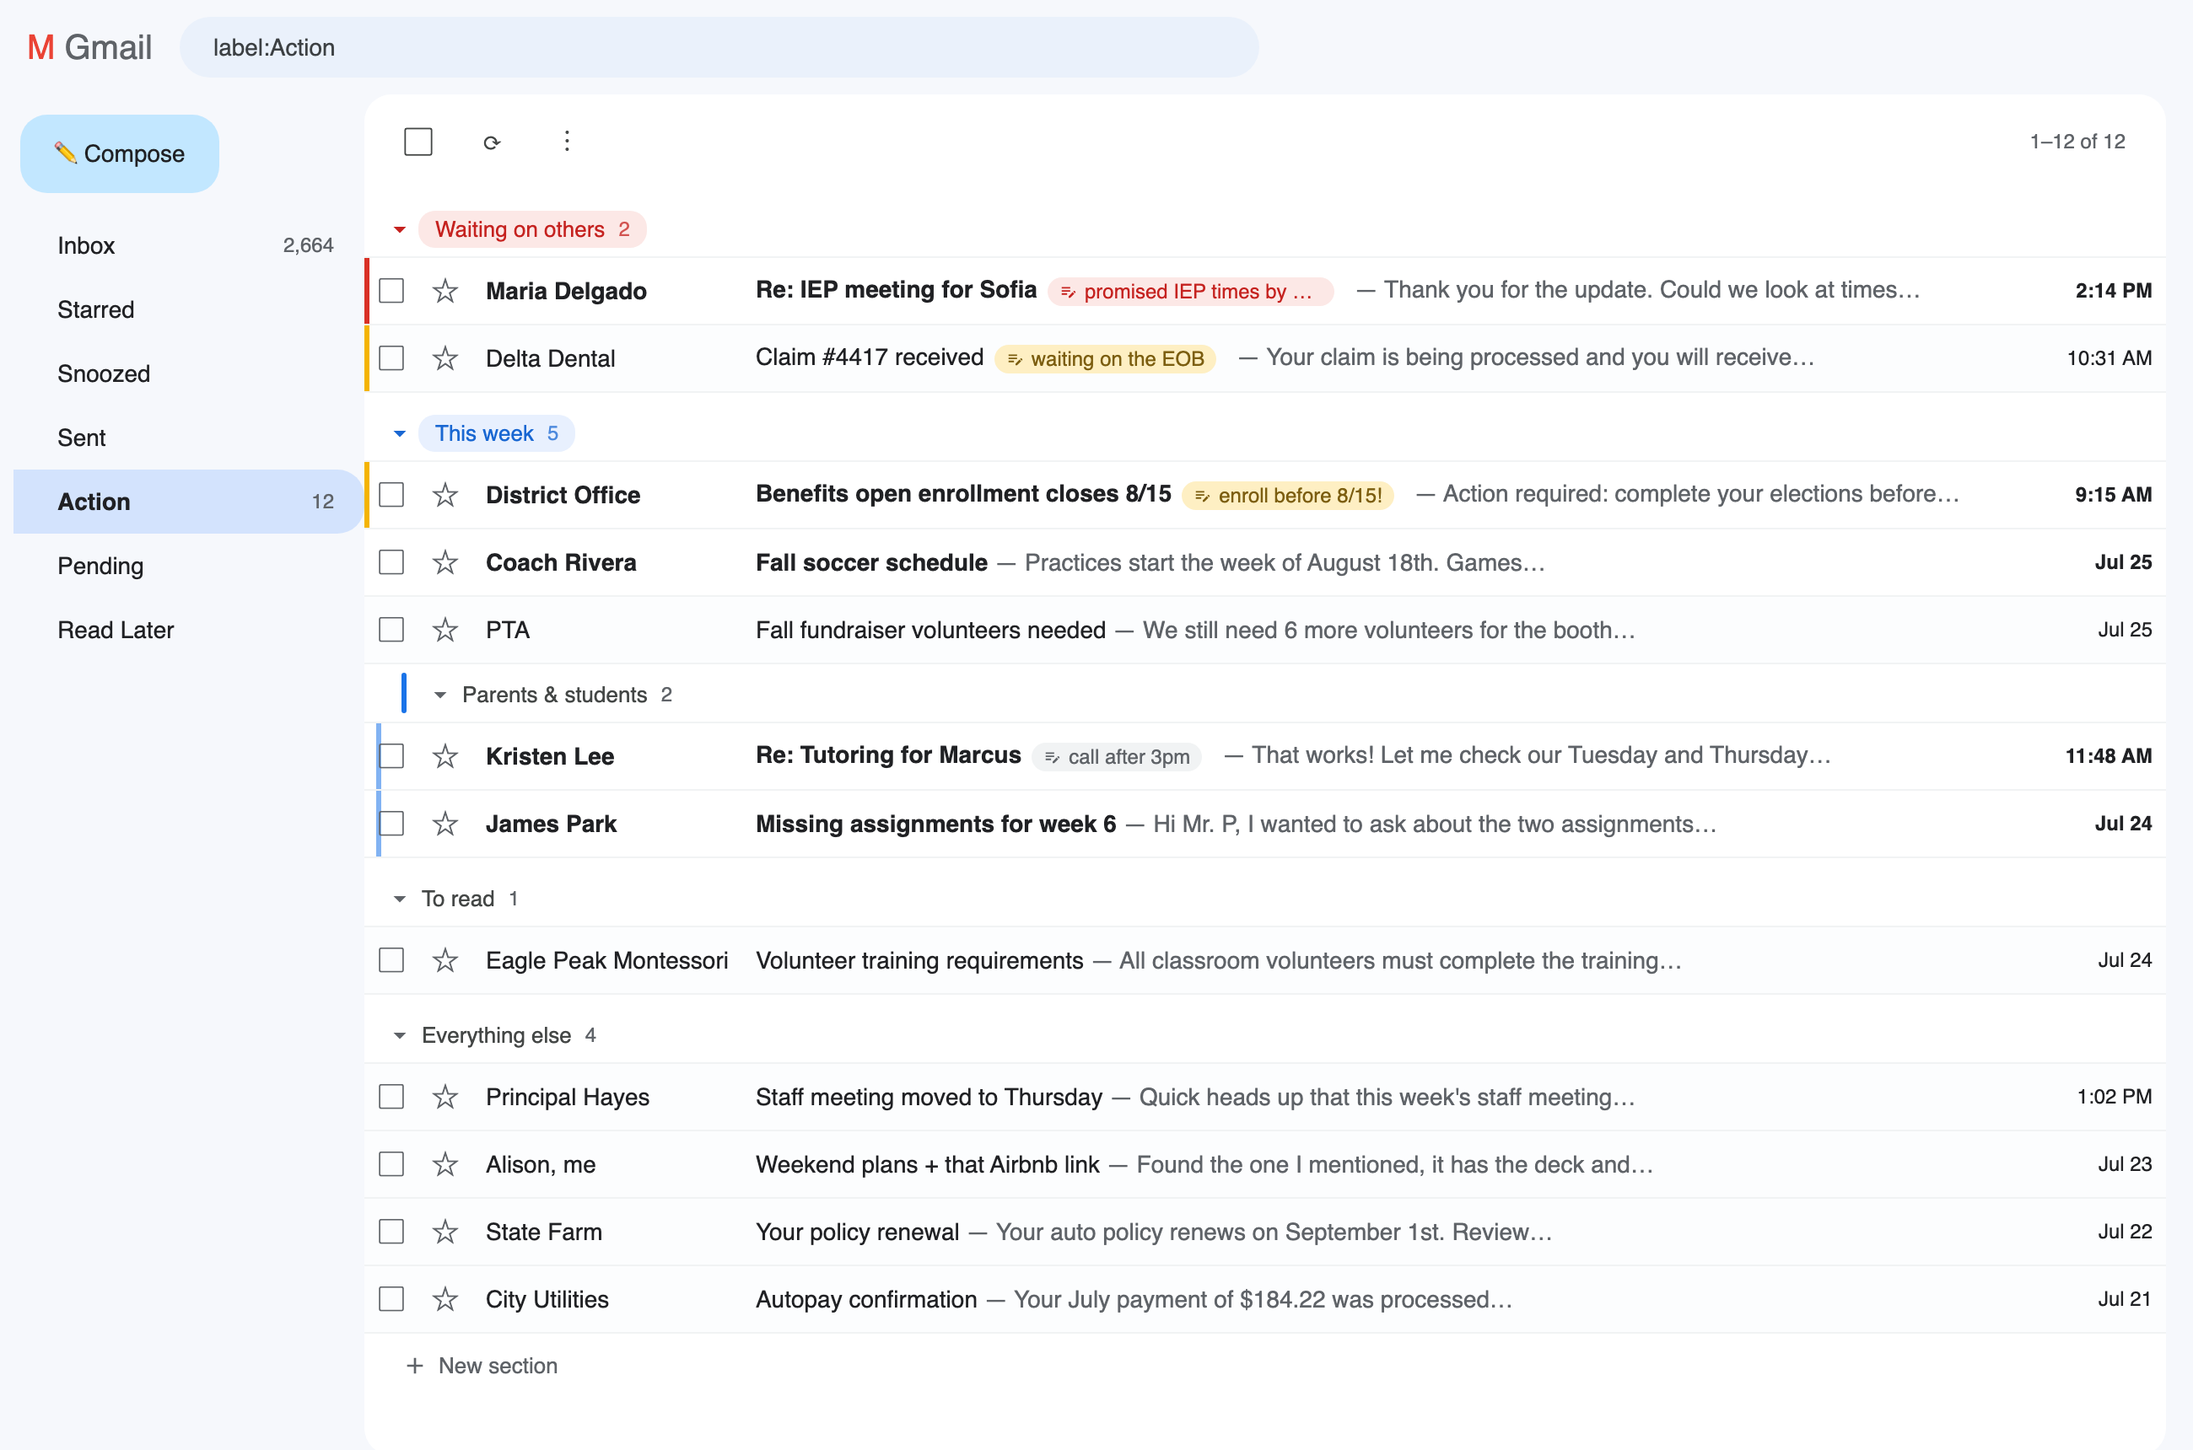
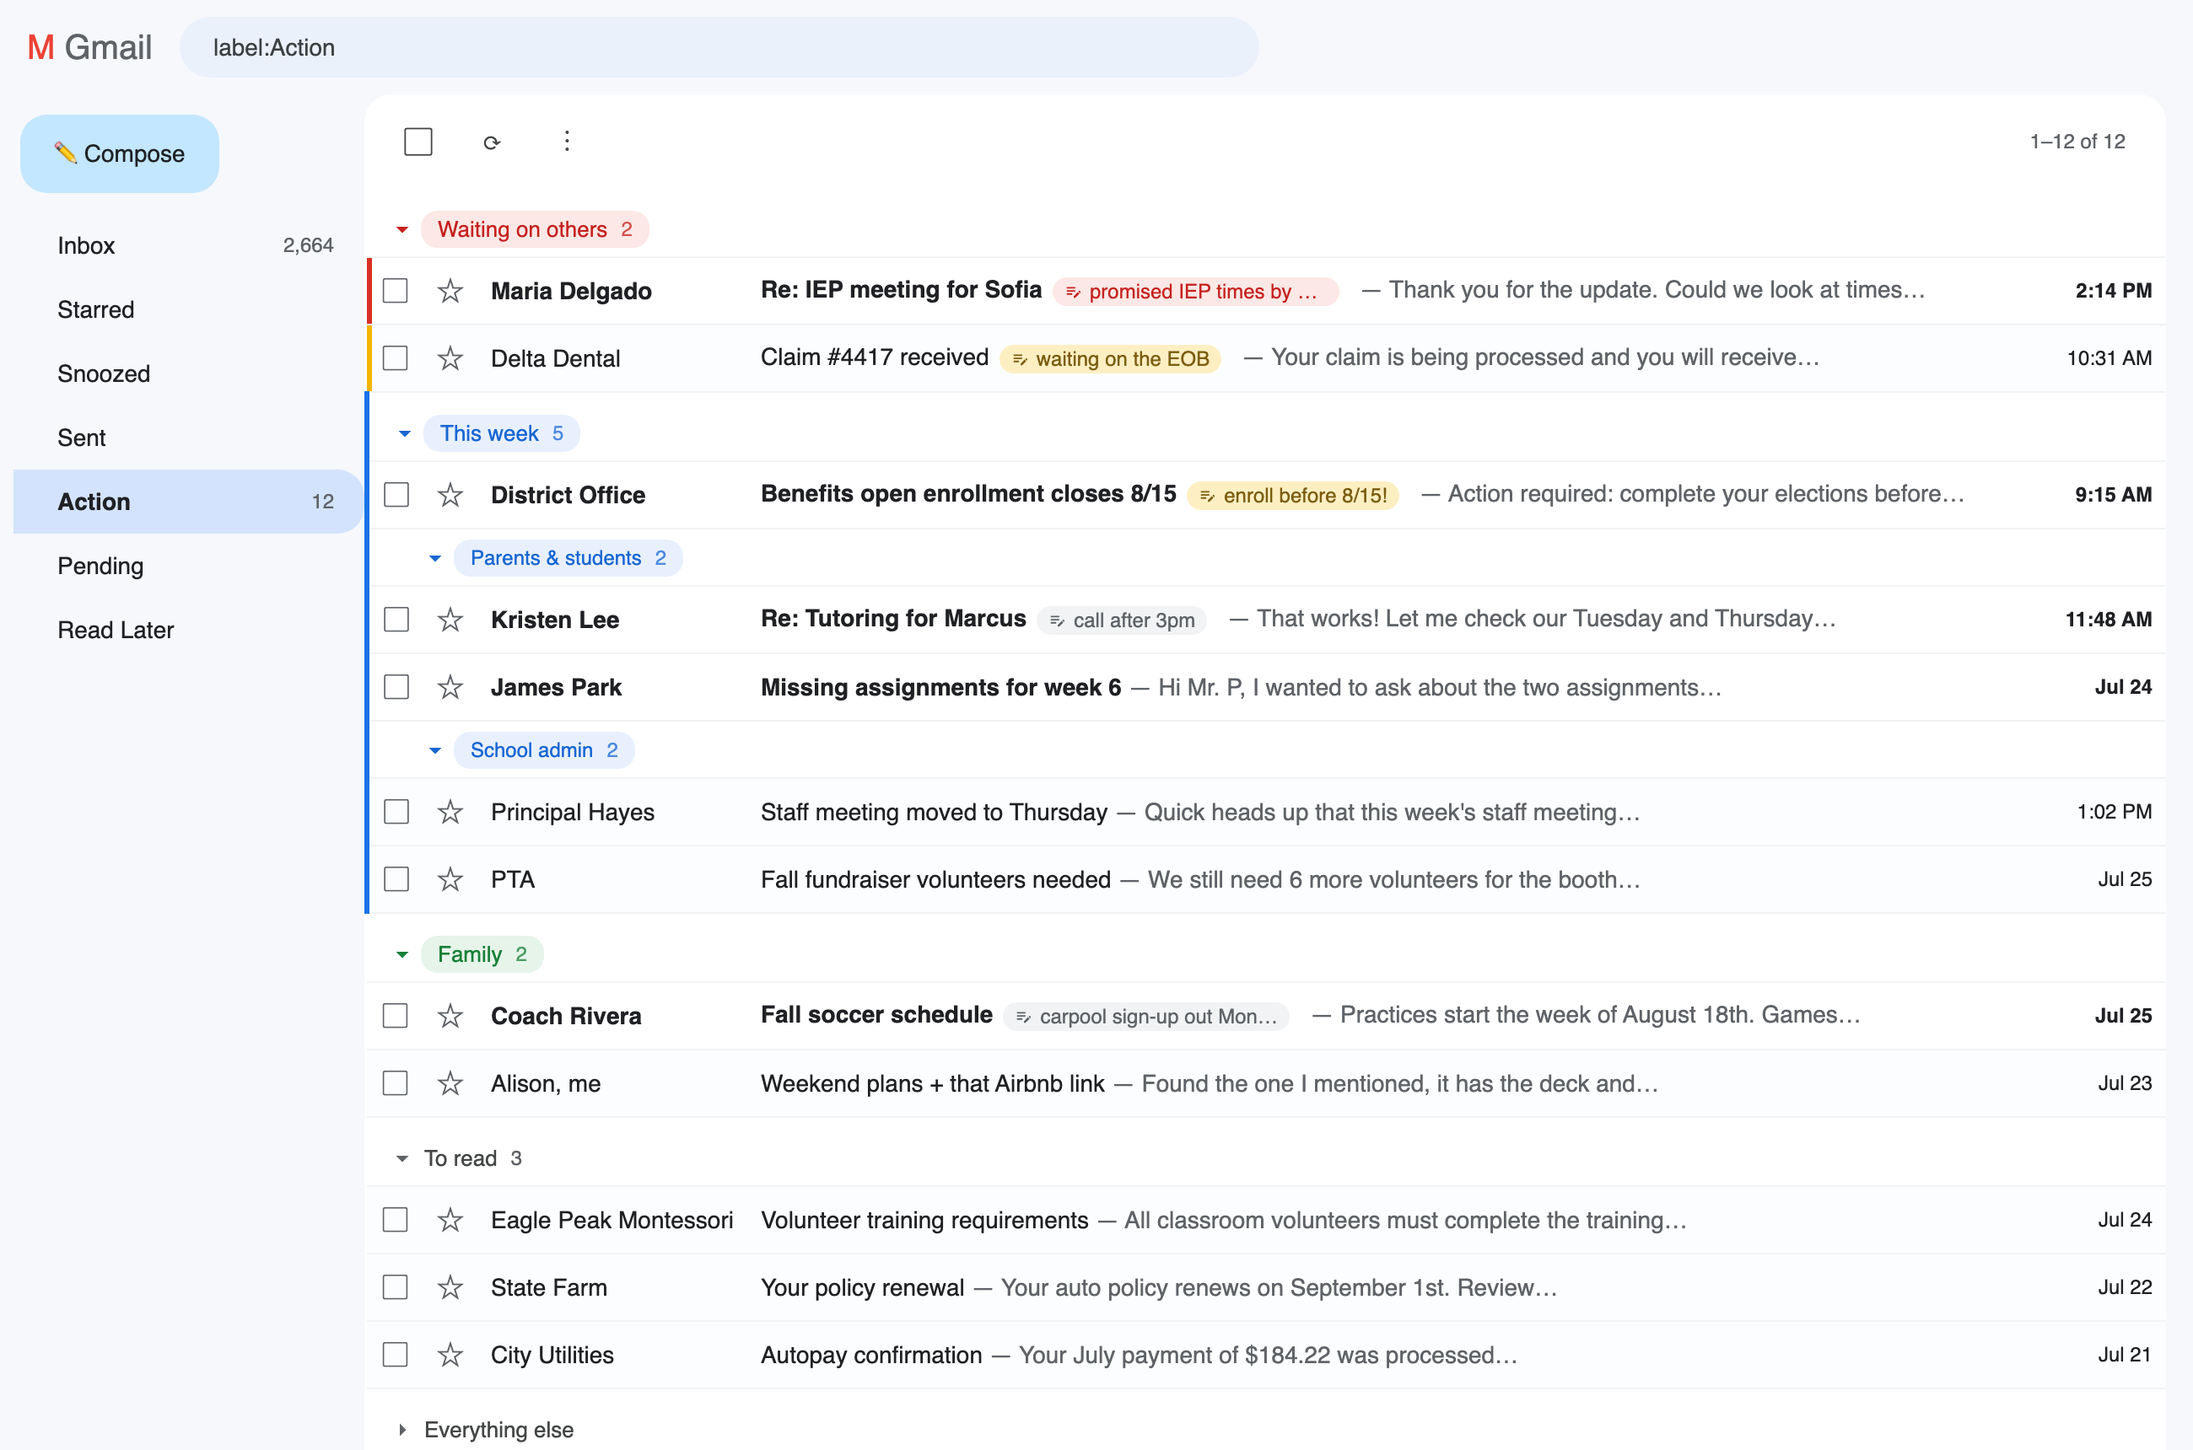
v0.35.0: sub-shelves — one continuous family spine (per Greg's feedback)
Greg's read on the 4th attempt: matching-color pills are right; the soft
highlight fill didn't land; and the left lines should be ONE continuous
line binding the shelf, not broken per-thread segments.

- Retired the per-thread channel + fill. A shelf that holds sub-shelves
  now anchors a 'family' with ONE continuous colored spine (a border-left,
  so it never breaks between rows) running the full height: parent header,
  the parent's own threads, and every sub-shelf header + its threads.
- Within a family the note color lives only in the chip, so a blue-noted
  thread no longer interrupts a red spine with a blue segment — the line
  stays one uniform color end to end.
- Sub-headers keep the indented matching-color chips Greg liked.
- Flat shelves are unchanged (per-thread note edges intact); only
  sub-shelf-having shelves get the spine. Light + dark verified.
- Suite 34/34; after.png + store hero regenerated.

diff --git a/shelf.css b/shelf.css
@@ -82,17 +82,19 @@ tr.zA.shelf-rc-gray td.shelf-rc-cell {
 tr.zA.shelf-rc-yellow td.shelf-rc-cell {
   box-shadow: inset 3px 0 0 0 #f4b400;
 }
-/* sub-shelf compartment: rows inside a sub-shelf sit in a channel — a crisp
-   family-color edge (0–3px) plus a soft inset panel (3–26px) — so the whole
-   sub-shelf reads as one contained block, continuous with its header's channel.
-   A parent's OWN threads get no channel, so "directly in This week" vs "inside
-   Parents & students" is unmistakable. */
-tr.zA[class*="shelf-subrail-"] td.shelf-rc-cell { background-repeat: no-repeat; }
-tr.zA.shelf-subrail-gray td.shelf-rc-cell   { background-image: linear-gradient(to right, #9aa0a6 0, #9aa0a6 3px, rgba(128,134,139,0.11) 3px, rgba(128,134,139,0.11) 26px, transparent 26px); }
-tr.zA.shelf-subrail-yellow td.shelf-rc-cell { background-image: linear-gradient(to right, #f4b400 0, #f4b400 3px, rgba(244,180,4,0.13) 3px, rgba(244,180,4,0.13) 26px, transparent 26px); }
-tr.zA.shelf-subrail-red td.shelf-rc-cell    { background-image: linear-gradient(to right, #d93025 0, #d93025 3px, rgba(217,48,37,0.12) 3px, rgba(217,48,37,0.12) 26px, transparent 26px); }
-tr.zA.shelf-subrail-green td.shelf-rc-cell  { background-image: linear-gradient(to right, #188038 0, #188038 3px, rgba(24,128,56,0.12) 3px, rgba(24,128,56,0.12) 26px, transparent 26px); }
-tr.zA.shelf-subrail-blue td.shelf-rc-cell   { background-image: linear-gradient(to right, #1a73e8 0, #1a73e8 3px, rgba(26,115,232,0.12) 3px, rgba(26,115,232,0.12) 26px, transparent 26px); }
+/* FAMILY SPINE: a shelf that holds sub-shelves gets ONE continuous colored
+   line down its whole left edge — parent header, the parent's own threads,
+   every sub-shelf header and its threads — binding them into a single unit.
+   It's a border-left (not a per-row shadow) so it never breaks between rows.
+   Within a family the note color lives only in the chip, so nothing
+   interrupts the line. */
+tr.shelf-header.shelf-spine-yellow > td, tr.zA.shelf-spine-yellow td.shelf-rc-cell { border-left: 3px solid #f4b400; }
+tr.shelf-header.shelf-spine-red > td,    tr.zA.shelf-spine-red td.shelf-rc-cell    { border-left: 3px solid #d93025; }
+tr.shelf-header.shelf-spine-green > td,  tr.zA.shelf-spine-green td.shelf-rc-cell  { border-left: 3px solid #188038; }
+tr.shelf-header.shelf-spine-blue > td,   tr.zA.shelf-spine-blue td.shelf-rc-cell   { border-left: 3px solid #1a73e8; }
+tr.shelf-header.shelf-spine-gray > td,   tr.zA.shelf-spine-gray td.shelf-rc-cell   { border-left: 3px solid #bdc1c6; }
+/* the family spine owns the left edge — suppress the per-thread note edge */
+tr.zA.shelf-in-family td.shelf-rc-cell { box-shadow: none; }
 /* drop target: the section becomes the "shelf" the thread slides onto —
    tinted, with a solid plank line underneath */
 tr.shelf-header.shelf-drop .shelf-h {
@@ -116,46 +118,14 @@ body.shelf-thread-drag tr.shelf-header:not(.shelf-drop) .shelf-h {
 tr.zA.shelf-hidden {
   display: none !important;
 }
-/* a sub-shelf header is the top of its compartment: the same family-color
-   channel runs behind it (crisp edge + soft panel), the chip is indented past
-   the channel and rendered a touch smaller/quieter than a top-level shelf, so
-   the eye reads a hierarchy of intensity, not two equal headers. */
+/* a sub-shelf header sits on the family spine, indented, wearing a chip in
+   the family color a touch smaller/quieter than a top-level shelf — so the
+   eye reads a hierarchy of intensity, not two equal headers. The spine
+   (border-left, above) supplies the containment line. */
 tr.shelf-header.shelf-sub .shelf-h {
-  position: relative;
-  padding-left: 34px;
+  padding-left: 30px;
   padding-top: 5px;
 }
-tr.shelf-header.shelf-sub .shelf-h::before {
-  content: '';
-  position: absolute;
-  left: 0;
-  top: 0;
-  bottom: -1px;
-  width: 26px;
-  background: linear-gradient(to right, currentColor 0, currentColor 3px, transparent 3px);
-  opacity: 0.9;
-}
-tr.shelf-header.shelf-sub.shelf-rail-yellow .shelf-h { color: #f4b400; }
-tr.shelf-header.shelf-sub.shelf-rail-red .shelf-h    { color: #d93025; }
-tr.shelf-header.shelf-sub.shelf-rail-green .shelf-h  { color: #188038; }
-tr.shelf-header.shelf-sub.shelf-rail-blue .shelf-h   { color: #1a73e8; }
-tr.shelf-header.shelf-sub.shelf-rail-gray .shelf-h   { color: #9aa0a6; }
-/* the soft inset panel behind the sub-header, matching the thread channel */
-tr.shelf-header.shelf-sub.shelf-rail-yellow .shelf-h::after,
-tr.shelf-header.shelf-sub.shelf-rail-red .shelf-h::after,
-tr.shelf-header.shelf-sub.shelf-rail-green .shelf-h::after,
-tr.shelf-header.shelf-sub.shelf-rail-blue .shelf-h::after,
-tr.shelf-header.shelf-sub.shelf-rail-gray .shelf-h::after {
-  content: '';
-  position: absolute;
-  left: 3px;
-  top: 0;
-  bottom: -1px;
-  width: 23px;
-  background: currentColor;
-  opacity: 0.11;
-}
-/* sub-header chip: smaller and quieter than a top-level colored shelf */
 tr.shelf-header.shelf-sub .shelf-h-pill { padding: 1px 8px; }
 tr.shelf-header.shelf-sub .shelf-name { font-size: 12px; }
 .shelf-mi-sub {
@@ -1061,12 +1031,12 @@ html.shelf-dark .shelf-h {
 html.shelf-dark tr.shelf-header td {
   border-bottom-color: rgba(255, 255, 255, 0.08);
 }
-/* dark: the channel uses currentColor, so recolor the sub-header per family */
-html.shelf-dark tr.shelf-header.shelf-sub.shelf-rail-yellow .shelf-h { color: #fdd663; }
-html.shelf-dark tr.shelf-header.shelf-sub.shelf-rail-red .shelf-h    { color: #f28b82; }
-html.shelf-dark tr.shelf-header.shelf-sub.shelf-rail-green .shelf-h  { color: #81c995; }
-html.shelf-dark tr.shelf-header.shelf-sub.shelf-rail-blue .shelf-h   { color: #8ab4f8; }
-html.shelf-dark tr.shelf-header.shelf-sub.shelf-rail-gray .shelf-h   { color: #9aa0a6; }
+/* dark: family spine in the lighter palette */
+html.shelf-dark tr.shelf-header.shelf-spine-yellow > td, html.shelf-dark tr.zA.shelf-spine-yellow td.shelf-rc-cell { border-left-color: #fdd663; }
+html.shelf-dark tr.shelf-header.shelf-spine-red > td,    html.shelf-dark tr.zA.shelf-spine-red td.shelf-rc-cell    { border-left-color: #f28b82; }
+html.shelf-dark tr.shelf-header.shelf-spine-green > td,  html.shelf-dark tr.zA.shelf-spine-green td.shelf-rc-cell  { border-left-color: #81c995; }
+html.shelf-dark tr.shelf-header.shelf-spine-blue > td,   html.shelf-dark tr.zA.shelf-spine-blue td.shelf-rc-cell   { border-left-color: #8ab4f8; }
+html.shelf-dark tr.shelf-header.shelf-spine-gray > td,   html.shelf-dark tr.zA.shelf-spine-gray td.shelf-rc-cell   { border-left-color: #5f6368; }
 html.shelf-dark .shelf-chevron svg,
 html.shelf-dark .shelf-more svg,
 html.shelf-dark .shelf-btn svg,
@@ -1113,11 +1083,6 @@ html.shelf-dark .shelf-chip.shelf-c-yellow,
 html.shelf-dark .shelf-note-strip.shelf-c-yellow { background: rgba(253, 214, 99, 0.15); color: #fdd663; }
 html.shelf-dark .shelf-tip.shelf-c-yellow { background: #4c4738; color: #fdd663; }
 html.shelf-dark tr.zA.shelf-rc-yellow td.shelf-rc-cell { box-shadow: inset 3px 0 0 0 #fdd663; }
-html.shelf-dark tr.zA.shelf-subrail-gray td.shelf-rc-cell   { background-image: linear-gradient(to right, #9aa0a6 0, #9aa0a6 3px, rgba(154,160,166,0.12) 3px, rgba(154,160,166,0.12) 26px, transparent 26px); }
-html.shelf-dark tr.zA.shelf-subrail-yellow td.shelf-rc-cell { background-image: linear-gradient(to right, #fdd663 0, #fdd663 3px, rgba(253,214,99,0.13) 3px, rgba(253,214,99,0.13) 26px, transparent 26px); }
-html.shelf-dark tr.zA.shelf-subrail-red td.shelf-rc-cell    { background-image: linear-gradient(to right, #f28b82 0, #f28b82 3px, rgba(242,139,130,0.13) 3px, rgba(242,139,130,0.13) 26px, transparent 26px); }
-html.shelf-dark tr.zA.shelf-subrail-green td.shelf-rc-cell  { background-image: linear-gradient(to right, #81c995 0, #81c995 3px, rgba(129,201,149,0.13) 3px, rgba(129,201,149,0.13) 26px, transparent 26px); }
-html.shelf-dark tr.zA.shelf-subrail-blue td.shelf-rc-cell   { background-image: linear-gradient(to right, #8ab4f8 0, #8ab4f8 3px, rgba(138,180,248,0.13) 3px, rgba(138,180,248,0.13) 26px, transparent 26px); }
 html.shelf-dark .shelf-sw-sel {
   box-shadow: 0 0 0 2px #2d2e31, 0 0 0 4px #8ab4f8;
 }

diff --git a/content.js b/content.js
@@ -2922,54 +2922,59 @@
       }
 
       const seq = [];
+      // a top-level shelf that holds sub-shelves anchors a "family": one
+      // continuous colored spine (border-left) runs the full height of the
+      // family — parent header, the parent's own threads, and every sub-shelf
+      // — so it reads as a single unit. Set on every family row.
+      const setSpine = (node, color) => {
+        for (const c of NOTE_COLORS) node.classList.toggle('shelf-spine-' + c, color === c);
+        node.classList.toggle('shelf-in-family', !!color);
+      };
       const pushBucket = (h, bucket, collapsed) => {
         seq.push(h);
         for (const r of bucket) {
           r.classList.toggle('shelf-hidden', !!collapsed);
-          setSubRail(r, null);
+          setSpine(r, null);
           seq.push(r);
         }
       };
       const secById = new Map(cfg.list.map((s) => [s.id, s]));
-      // sub-shelf rows carry a side-wall rail in the family color, so the
-      // contents read as nested even though table rows can't be indented
-      const setSubRail = (r, c) => {
-        r.classList.toggle('shelf-in-sub', !!c);
-        for (const cc of NOTE_COLORS) r.classList.toggle('shelf-subrail-' + cc, c === cc);
-      };
-      const renderSection = (s, asChild, parentCollapsed, parentColor) => {
+      const renderSection = (s, asChild, parentCollapsed, parentColor, spineColor) => {
         const bucket = byId.get(s.id);
         const kids = childrenOf(cfg, s.id);
         let total = bucket.length;
         for (const k of kids) total += byId.get(k.id).length;
-        // the bracket/side-wall inherits the parent's color unless the child
-        // has its own — visible family membership either way
-        const railC = asChild ? (s.c || parentColor || 'gray') : null;
+        // the family spine is the top-level shelf's color (gray if it has
+        // none); it flows down to every descendant so the whole thing is one
+        // uniform line, uninterrupted by per-thread note colors
+        const spine = spineColor || (!asChild && kids.length ? (s.c || 'gray') : null);
+        // a sub-header wears a chip in the family color (its own, or the
+        // parent's) so it reads as a contained compartment, never a weaker
+        // floating header
+        const chipC = asChild ? (s.c || parentColor || 'gray') : s.c;
         if (!parentCollapsed) {
           const h = headerFor(label, s.id);
           h.classList.toggle('shelf-sub', !!asChild);
-          for (const c of NOTE_COLORS) h.classList.toggle('shelf-rail-' + c, asChild && railC === c);
-          // a sub-header always wears a chip in the family color (its own, or
-          // the parent's) so it reads as a contained compartment, never a
-          // weaker floating header
-          updateHeader(h, s.name, total, s.collapsed, false, asChild ? railC : s.c);
+          setSpine(h, spine);
+          updateHeader(h, s.name, total, s.collapsed, false, chipC);
           seq.push(h);
         }
         const hideRows = parentCollapsed || !!s.collapsed;
         for (const r of bucket) {
           r.classList.toggle('shelf-hidden', hideRows);
-          setSubRail(r, railC);
+          setSpine(r, spine);
           seq.push(r);
         }
-        for (const k of kids) renderSection(k, true, parentCollapsed || !!s.collapsed, s.c);
+        for (const k of kids) renderSection(k, true, parentCollapsed || !!s.collapsed, s.c, spine);
       };
       for (const id of combinedIds(cfg)) {
         if (id === ':else') {
           const hElse = headerFor(label, ':else');
+          setSpine(hElse, null);
           updateHeader(hElse, cfg.elseName || 'Everything else', rest.length, cfg.elseCollapsed, true, cfg.elseColor);
           pushBucket(hElse, rest, cfg.elseCollapsed);
         } else {
-          renderSection(secById.get(id), false, false, null);
+          renderSection(secById.get(id), false, false, null, null);
         }
       }
 

diff --git a/tools/test.html b/tools/test.html
@@ -219,17 +219,18 @@ function needViewport(el) {
     assert(sub && sub.name === 'Interviews', 'not stored: ' + JSON.stringify(store().sections.Action.list));
     const subHdr = headerBySec(sub.id);
     assert(subHdr && subHdr.classList.contains('shelf-sub'), 'no indented sub header');
-    // bracket rail inherits the parent's color
+    // family spine inherits the parent's color across the whole family
     clickEl(headerBySec('aaa').querySelector('.shelf-more'));
     clickEl($('.shelf-menu .shelf-sw-red'));
     closeMenus();
     await sleep(400);
-    assert(headerBySec(sub.id).classList.contains('shelf-rail-red'), 'rail did not inherit parent color');
+    assert(headerBySec(sub.id).classList.contains('shelf-spine-red'), 'family spine did not inherit parent color');
+    assert(headerBySec('aaa').classList.contains('shelf-spine-red'), 'parent header not on the spine');
     clickEl(headerBySec('aaa').querySelector('.shelf-more'));
     clickEl($('.shelf-menu .shelf-sw-none'));
     closeMenus();
     await sleep(400);
-    assert(!headerBySec(sub.id).classList.contains('shelf-rail-red'), 'rail color not cleared');
+    assert(!headerBySec(sub.id).classList.contains('shelf-spine-red'), 'spine color not cleared (should fall back to gray)');
     // file t7 into the sub-shelf via the ☰ menu (indented entry)
     const row7 = rowById('t7');
     const btn = row7.querySelector('.shelf-btn-assign');
@@ -241,7 +242,8 @@ function needViewport(el) {
     clickEl(mi);
     await sleep(500);
     assert(store().assignments.t7.s === sub.id, 'not filed into sub-shelf');
-    assert(rowById('t7').classList.contains('shelf-subrail-gray'), 'side-wall rail missing on sub row');
+    assert(rowById('t7').classList.contains('shelf-in-family'), 'sub row not marked in-family (spine)');
+    assert(rowById('t7').classList.contains('shelf-spine-gray'), 'sub row missing family spine color');
     assert(rowById('t7').querySelector('td.shelf-rc-cell'), 'anchor cell missing');
     // collapsing the parent hides the child header and its rows
     clickEl(headerBySec('aaa').querySelector('.shelf-h'));
